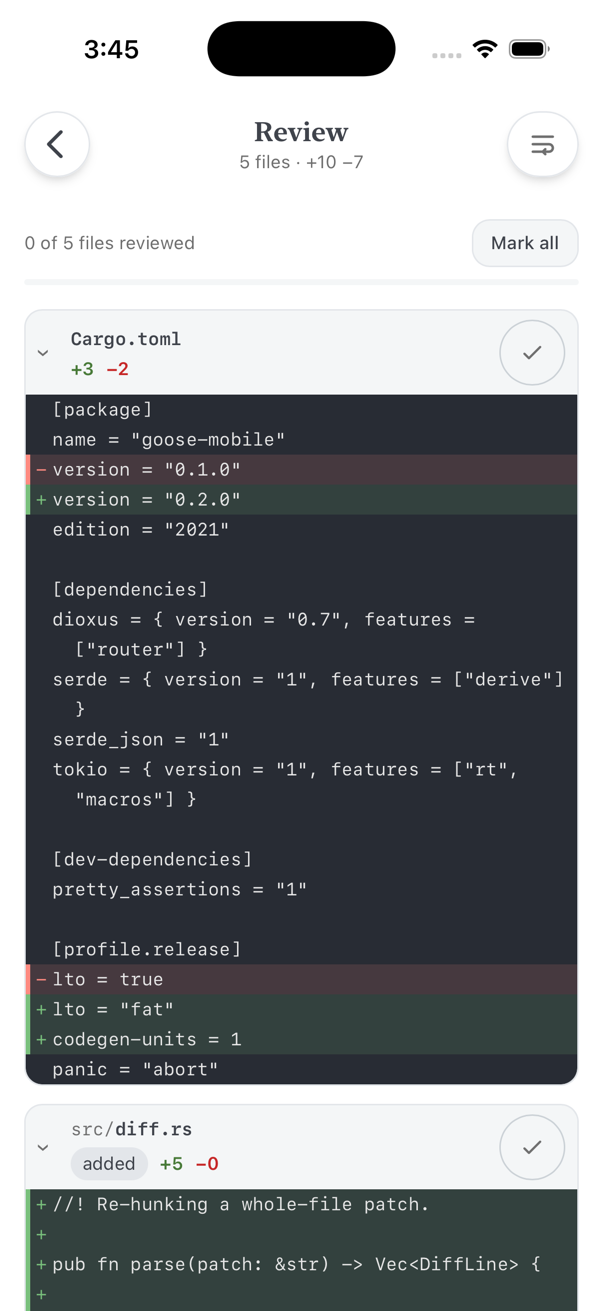
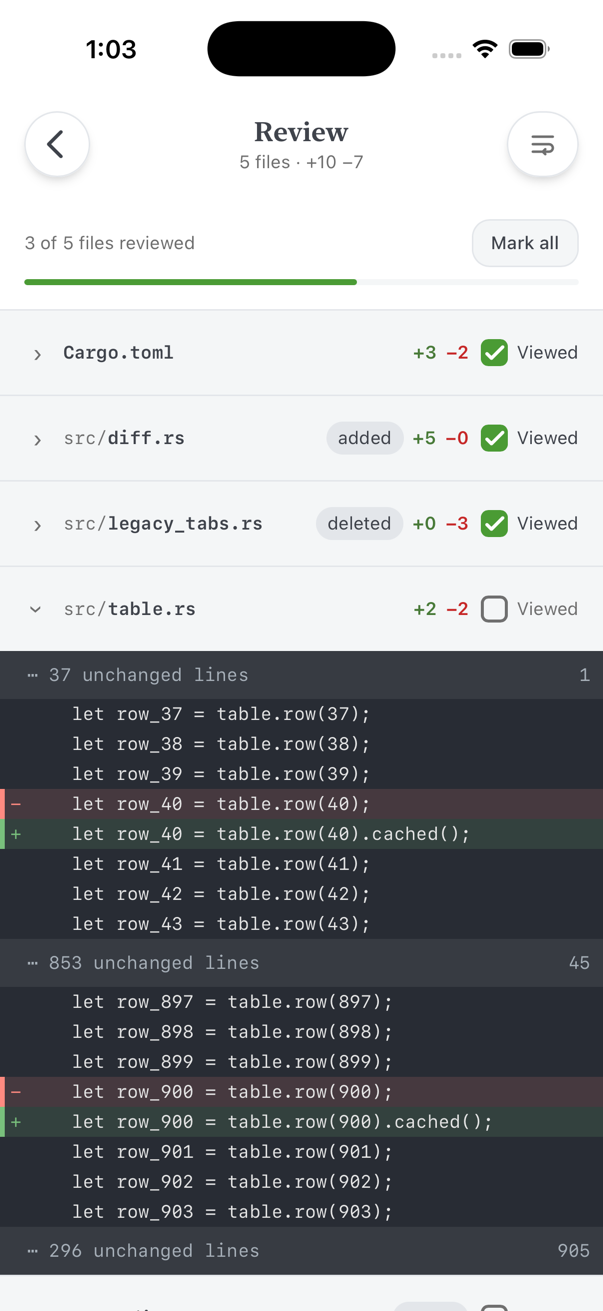
Re-shoot the app as it is now, and say how a session starts
The four screenshots were captured from the build before the last round
and had gone visibly wrong: the review screen showed the two-line file
head with its pill checkbox, and the code chat showed the composer
wrapped onto a second line. Both are captures of a UI that no longer
exists, which is exactly the drift the shoot script was written to
avoid.

Re-shot from the build that merged, and a fifth added, because the
biggest change since has no picture: a session now starts by writing the
task, not by filling in a form. The alt texts describe what is in the
frames rather than what was in the old ones — the review screen is one
line per file with a Viewed checkbox, and the code chat's chips name a
real model and a real mode on one line with send.

"What it does" gains an entry for starting a session and says the model
is required, which is the reason the chips used to name themselves
instead of stating a value. The diff entry describes lines rather than
cards, and the gallery count goes from twenty-one to twenty-seven.

diff --git a/docs/index.html b/docs/index.html
@@ -516,8 +516,13 @@ footer ul a { display: inline-flex; align-items: center; min-height: 44px; font-
     <div class="wrap">
       <div class="shots">
         <figure>
+          <img src="images/new-session.png" width="603" height="1311" loading="lazy" decoding="async"
+               alt="The new-session screen: a close button, a placeholder reading “Start a task in testrepo on branch main…”, and above the keyboard two rows of pills — the repository and the base branch on one, an attach button, a Model chip marked with an amber dot because nothing is chosen yet, and a Build mode chip on the other.">
+          <figcaption>A session starts by writing the task</figcaption>
+        </figure>
+        <figure>
           <img src="images/code-list.png" width="603" height="1311" loading="lazy" decoding="async"
-               alt="The Code screen: two rounded session cards. The first, “Blocked on a push”, carries an amber dot on its tile, a status reading “waiting on you”, and an inset panel — “Approve or deny Run: git push origin HEAD” — with Deny and Approve buttons inside the card. The second, “Attachments”, is idle. A New session button floats at the bottom right.">
+               alt="The Code screen: one session card, “Tidy the changelog”, carrying an amber dot on its tile, a status reading “waiting on you”, its repository and branch, and an inset panel — “Approve or deny Run: git push origin HEAD” — with Deny and Approve buttons inside the card. A New session button floats at the bottom right.">
           <figcaption>A chat waiting on you, answered from the list</figcaption>
         </figure>
         <figure>
@@ -527,12 +532,12 @@ footer ul a { display: inline-flex; align-items: center; min-height: 44px; font-
         </figure>
         <figure>
           <img src="images/diff-review.png" width="603" height="1311" loading="lazy" decoding="async"
-               alt="The Review screen: a header reading “5 files · +10 −7”, a progress line “0 of 5 files reviewed” with a Mark all button, then per-file cards. Cargo.toml is expanded, showing a dark code block with red removed lines and green added ones, and a check circle to mark the file read.">
+               alt="The Review screen: a header reading “5 files · +10 −7”, a progress line “3 of 5 files reviewed” with a Mark all button, then one line per file holding its path, its +N −M counts and a Viewed checkbox. Three are checked and folded; src/table.rs is open, its code running the full width of the screen with red removed lines and green added ones.">
           <figcaption>The session’s changes, one file at a time</figcaption>
         </figure>
         <figure>
           <img src="images/code-chat.png" width="603" height="1311" loading="lazy" decoding="async"
-               alt="A code-agent chat: the title bar carries a new-chat button and an overflow menu, the transcript shows a message with a file attached to it and the agent’s reply, and below it a row of Diff (+10 −7) and Pull requests (5) chips sits above the composer, which holds an attach button, a model chip and a mode chip.">
+               alt="A code-agent chat: the title bar carries a new-chat button and an overflow menu; the transcript shows two tasks, a git push tool card and the agent’s replies; a row of Diff (+10 −7) and Pull requests (5) chips sits above the composer, which holds an attach button and chips naming the model (DeepSeek V4 Flash) and the mode (Build) on one line with the send button.">
           <figcaption>A code agent, mid-task</figcaption>
         </figure>
       </div>
@@ -545,14 +550,14 @@ footer ul a { display: inline-flex; align-items: center; min-height: 44px; font-
            links (here, in "How it is kept honest", and in the footer) at
            style-gallery.html and the live artefact works. -->
       <p class="shot-note">
-        The running app, not mock-ups: all four are captures off an iPhone 17 Pro
+        The running app, not mock-ups: all five are captures off an iPhone 17 Pro
         simulator, taken from the build these pages were written against. They are
         light mode; the app follows the system and has a dark set of the same tokens.
       </p>
       <p class="shot-note">
         For markup that cannot drift there is the
         <a href="https://github.com/PhillipChaffee/goose-phone-app/blob/main/docs/style-gallery.html">style gallery</a>:
-        twenty-one states dumped out of the app's own DOM, including every one shown
+        twenty-seven states dumped out of the app's own DOM, including every one shown
         here. That is what <code>docs/audit.js</code> reads, so a screen only escapes
         being checked for contrast, overflow and tap-target size if nobody ever drove
         the app to it.
@@ -646,19 +651,32 @@ footer ul a { display: inline-flex; align-items: center; min-height: 44px; font-
         <div>
           <dt>Diff review</dt>
           <dd>
-            A code chat's cumulative diff, one collapsible card per file, with per-file
-            reviewed marks and a wrap toggle. OpenCode returns whole-file patches, so the
+            A code chat's cumulative diff, one line per file holding its path, its counts
+            and a Viewed checkbox, with the code running the full width of the screen and
+            a wrap toggle for long lines. OpenCode returns whole-file patches, so the
             re-hunking that makes them readable at 402px happens on the device.
           </dd>
         </div>
         <div>
           <dt>Model, effort and mode, per session</dt>
           <dd>
-            Two chips on the composer. One opens a sheet holding whatever that backend can
-            actually change — provider, model, thinking effort; the other picks the mode a
-            turn runs in, goose's own or an OpenCode agent. What cannot change, like the
-            context window, is stated as a fact rather than offered as a control that does
-            nothing.
+            Two chips on the composer, on one line with the send button. One opens a sheet
+            holding whatever that backend can actually change — provider, model, thinking
+            effort; the other picks the mode a turn runs in, goose's own or an OpenCode
+            agent. Both state a resolved value rather than naming themselves, so a chip is
+            never a question. What cannot change, like the context window, is stated as a
+            fact rather than offered as a control that does nothing.
+          </dd>
+        </div>
+        <div>
+          <dt>Starting a code session</dt>
+          <dd>
+            A composer, not a form: you write the task, and the placeholder names what it
+            will run against. The repository, the base branch to cut from, the model and
+            the mode are pills above the keyboard, each opening a sheet that filters once
+            the list is long enough to need it. The model is required — a session that
+            began without one had nothing to report afterwards, which is why the chips
+            used to name themselves.
           </dd>
         </div>
         <div>

diff --git a/README.md b/README.md
@@ -25,7 +25,7 @@ loop the app is developed in.
 
 <sub>The running app, not mock-ups: captures off an iPhone 17 Pro simulator
 (`scripts/shoot-simulator.sh <name>`). For markup that cannot drift there is
-[`docs/style-gallery.html`](docs/style-gallery.html): twenty-one screen states
+[`docs/style-gallery.html`](docs/style-gallery.html): twenty-seven screen states
 dumped out of the app's own DOM, which is also what `docs/audit.js` reads.</sub>
 
 ## Features
@@ -34,7 +34,8 @@ dumped out of the app's own DOM, which is also what `docs/audit.js` reads.</sub>
 - **Tool visibility and control** — every tool call appears as a card with live status and output, and the agent's permission requests become an approval sheet: allow once, always allow, or reject. A run of two or more settled calls folds to one line, and stays open when anything in it failed or is still running. A code agent blocked on a permission says so on the list, and can be answered from there.
 - **Sessions** — browse, resume, and delete your server-side sessions; swipe a row left for its delete tray. History replays through the same rendering path as live output, so a resumed chat looks identical.
 - **Attachments** — send a photo, a screenshot or a file with your message, on either tab. The picker is iOS's own (photo library, camera, Files); images are downscaled on the phone so a 12-megapixel camera file does not become a multi-megabyte request over the tailnet, and anything too large or of a type neither agent can read is refused by name rather than dropped.
-- **Model, effort and mode, per session** — two chips on the composer. One opens a sheet holding whatever that backend can actually change (provider, model, thinking effort); the other picks the mode a turn runs in — goose's own, or an OpenCode agent. What cannot change — the context window on either — is stated as a fact instead of being offered as a control that does nothing.
+- **Model, effort and mode, per session** — two chips on the composer, on one line with the send button. One opens a sheet holding whatever that backend can actually change (provider, model, thinking effort); the other picks the mode a turn runs in — goose's own, or an OpenCode agent. Both state a resolved value rather than naming themselves. What cannot change — the context window on either — is stated as a fact instead of being offered as a control that does nothing.
+- **Starting a code session** — a composer, not a form: you write the task and the placeholder names what it will run against. Repository, base branch, model and mode are pills above the keyboard, each opening a sheet that filters once the list is long enough to need it. The model is required.
 - **Pull requests** — the work a code agent has pushed, listed with its state and check status, and mergeable from the phone when GitHub says it can be.
 - **Built for a phone on a flaky network** — Stop cancels a running turn, dropped connections reconnect automatically and replay history, and half-open sockets (the classic "connected but nothing happens" after switching networks) are detected and recovered.
 - **Private by default** — reaches your server over your tailnet, authenticated with a shared secret, with optional certificate pinning.
